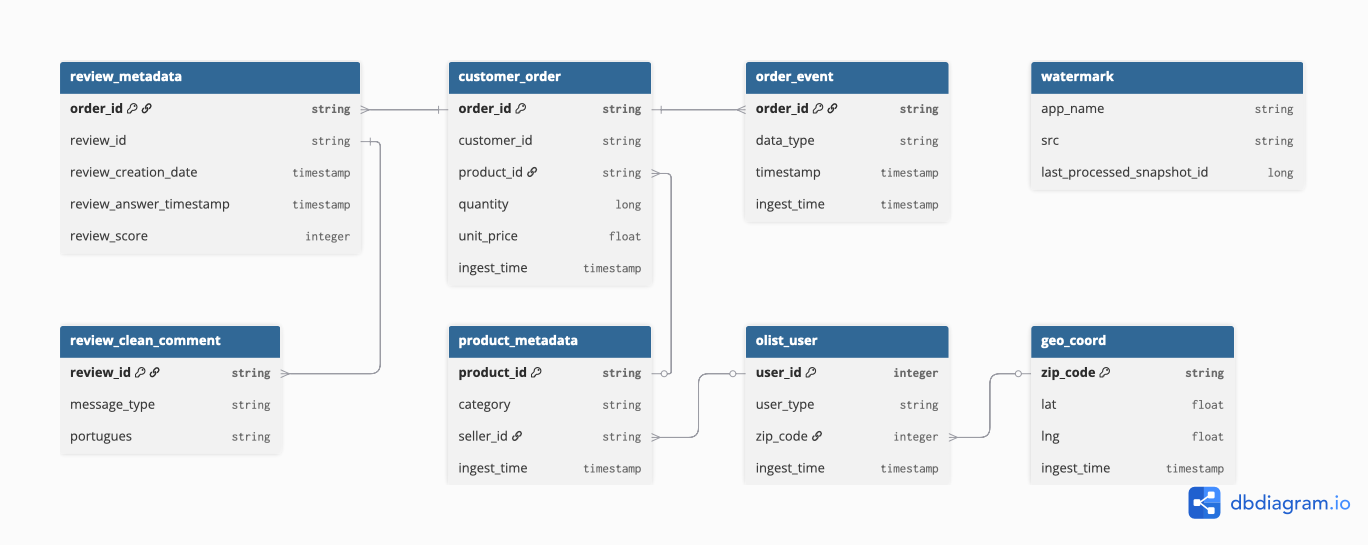
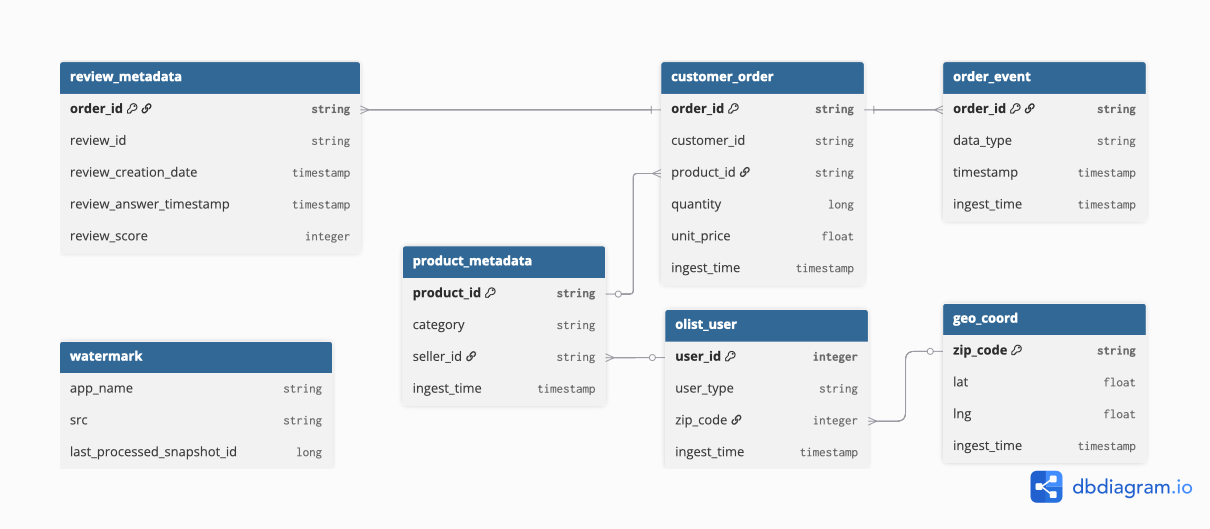
fix(docs): modify layout, schema image, and framwork version

diff --git a/_posts/2025-11-22-ecommerce.md b/_posts/2025-11-22-ecommerce.md
@@ -12,9 +12,18 @@ mermaid: true
 
 - 목표: 실시간 배송 지연 모니터링 및 매출 대시보드 구축
 - 기간: 2025년 4월 ~
-- 사용 기술: kafka, confluent, spark, iceberg, minio, airflow, prometheus, grafana, superset
 - 사용 데이터: [Brazilian E-Commerce Public Dataset by Olist](https://www.kaggle.com/datasets/olistbr/brazilian-ecommerce/data)
     - 브라질 소상공인들에게 온라인 마켓플레이스를 제공하는 전자상거래 플랫폼인 `Olist`에서 제공한 캐글 데이터
+- 사용 기술 및 버전
+    - Kafka: `3.9.1`
+    - Confluent: `7.6.1`
+    - Spark: `3.5.6`
+    - Iceberg: `1.9.1`
+    - MinIO: `RELEASE.2025-06-13T11-33-47Z`
+    - Airflow: `3.0.6`
+    - Prometheus: `3.5.0`
+    - Grafana: `12.2.0`
+    - Superset: `5.0.0`
 
 ## 프로젝트 목표 선정 배경
 
@@ -151,13 +160,10 @@ _long_tail_quantity_by_product_
 - 생성된 `tsv` 파일의 이름은 총 9개로, CDC에서 아래 요소들을 정의할 때 사용됩니다.
     - `Bronze Layer`의 테이블 이름
     - `Bronze Topic`의 토픽 이름
-- `테이블 변경 전 후` 변경 내용과 `CDC에 사용할 데이터의 최종 스키마`를 도식화하면 아래와 같습니다.
+- `테이블 변경 전 후` 변경 내용은 다음과 같습니다.
 
 ![img-description](../assets/img/portfolio/schema/prep_small.png)
 _테이블 변경 전 후_
-
-![img-description](../assets/img/portfolio/schema/bronze.png)
-_CDC에 사용할 데이터의 최종 스키마_
 
 ### 데이터 주입 시간 추가
 - 스트림 데이터를 모방하기 위해 `current_ingest_time` 열을 추가하여 데이터 주입 시간을 관리합니다.
@@ -179,9 +185,9 @@ current_ingest_time = \
 #### 배경 및 목적
 - 원본 데이터(`olist_orders`)에서 주문상태는 **수 시간에서 수일 간격**으로 발생하는 경우가 포함되어 있습니다.
 - 이를 실시간 파이프라인 시뮬레이션에 그대로 적용할 경우, **데이터가 유입되지 않는 긴 대기 시간**으로 인해 개발 효율성이 저하됩니다.
-- 따라서 **실제 주문 패턴(Burstiness)은 유지하되, 불필요한 공백기만 효율적으로 단축**하는 전략을 수립하였습니다.
+- 따라서 **실제 주문 패턴은 유지하되, 불필요한 공백기만 효율적으로 단축**하는 전략을 수립하였습니다.
 
-#### 데이터 분포 분석
+#### 주문 상태의 시간 차이 분석
 - 전체 주문 데이터에서 [주문 상태의 시간 차이](https://github.com/jmhwang-dev/e-commerce/blob/develop/notebooks/pandas/eda/diff_event_timestamp.ipynb)를 분석한 결과는 다음과 같습니다.
 
     * **Median (50%):** 39초 (평균적인 주문 흐름)
@@ -194,10 +200,10 @@ current_ingest_time = \
 
 - 현실성 있는 [메시지 발행 시뮬레이션](https://github.com/jmhwang-dev/e-commerce/blob/develop/simulator/run.py)과 개발 속도를 높이기 위해 다음과 같이 임계값을 설정하였습니다.
 
-    - **Threshold: `300초` (5분)**
+    - `threshold_interval`: 300초 (5분)
         - 전체 데이터 패턴의 **90%를 원본 그대로 보존**
         - 주문 폭주(Burst) 및 일반적인 트래픽 리듬을 왜곡 없이 재현
-    - **Base Interval: `30초`**
+    - `base_interval`: 30초
         - Grafana에서 **트래픽이 끊겼음(Lag 해소)**을 시각적으로 인지할 수 있는 최소한의 대기 시간 확보
 
 ```python
@@ -220,16 +226,16 @@ for i, order_status_series in order_status_df.iterrows():
 ```
 
 
-## 파이프라인 구조: 하이브리드(Hybrid) 모니터링 시스템
+## 파이프라인 구조: 하이브리드(Hybrid) 모니터링 시스템을 위한 Lambda 아키텍쳐
 
 - 프로젝트 목표로부터 아키텍처의 기본 요구사항은 아래와 같습니다.
     1. 배송지연 모니터링을 위한 주문 상태 시간의 스트림 처리 필요
     2. 상품 포트폴리오 매트릭스를 계산하기 위한 `평균 판매액`과 `주문 수` 배치 집계 필요
 
 - 요구사항을 통해 파이프라인 아키텍처를 다음과 같이 설계했습니다.
-    * **Analytical Layer (Batch):** 대용량 판매 이력을 분석하여 상품별 **비즈니스 등급(Tier)**을 산정
-    * **Operational Layer (Streaming):** 개별 주문의 배송 상태와 지연 여부를 **실시간으로 추적**
-    * **Serving Layer (Hybrid):** 위 두 정보를 결합하여, 운영자가 **핵심 상품(Star Product)의 지연**을 최우선으로 식별하고 조치할 수 있도록 지원
+    * **Batch Layer**: 대용량 판매 이력을 분석하여 상품별 **비즈니스 등급(Tier)**을 산정
+    * **Speed Layer:**: 개별 주문의 배송 상태와 지연 여부를 **실시간으로 추적**
+    * **Serving Layer**: 위 두 정보를 결합하여, 운영자가 **핵심 상품(Star Product)의 지연**을 최우선으로 식별하고 조치할 수 있도록 지원
 
 ![img-description](../assets/img/portfolio/pipeline/arch.png)
 _Lambda Architecture_
@@ -238,95 +244,159 @@ _Lambda Architecture_
 
 #### Confluent Schema Registry
 - CDC로 원천 데이터의 정합성을 보장하기 위해 도입했습니다.
-- 원천 데이터는 누락이 없이 수집되어야 하므로 [메시지에 null 값이 포함돼도 발행되도록 스키마를 구성](https://github.com/jmhwang-dev/e-commerce/tree/develop/infra/confluent/schemas/bronze)하였습니다.
-- 메시지 발행 시, schema registry에 등록한 Avro schema를 통해 직렬화를 수행합니다.
+- 원천 데이터는 누락이 없이 수집되어야 하므로 메시지에 null 값이 포함돼도 발행되도록 스키마를 구성하였습니다.
 
-<!-- 
-- 키 추가 내용
-- 코드 스니펫?
--->
+    ```jsonc
+    // null 포함 스키마 예시: `customer.avsc`
+
+    {   
+        "namespace": "bronze",
+        "type": "record",
+        "name": "customer",
+        "fields": [
+            { "name": "zip_code", "type": ["null", "int"], "default": null },
+            {
+                "name": "ingest_time",
+                "type": [ "null", { "type": "long", "logicalType": "timestamp-millis" } ],
+                "default": null
+            }
+        ]
+    }
+    ```
+    
+- 메시지 발행 시, schema registry에 등록한 [Avro schema](https://github.com/jmhwang-dev/e-commerce/tree/develop/infra/confluent/schemas)를 통해 [직렬화](https://github.com/jmhwang-dev/e-commerce/blob/develop/src/service/producer/base/pandas.py)를 수행합니다.
 
 #### Kafka cluster
 - 프로젝트 목표 중 `실시간 배송 지연 모니터링` 달성을 위해 Kafka를 사용했습니다.
 - Kafka cluster는 최소 3개의 노드로 구성해야 장애 대응에 안정적이므로 3개의 노드로 구성했습니다.
-- 전통적으로 많이 사용되던 메타데이터 관리 방식인 ZooKeeper가 deprecated 될 예정이었으므로, KRaft 모드로 구성했습니다.
-<!-- - 단일 파티션에서는 모든 메시지가 한 파티션에 저장되므로, 메시지의 순서가 보장됩니다.
-- 파티션 개수는 메시지의 시간 순서를 보장하고 구현을 단순화하기 위해 단일 파티션으로 구성하였습니다. -->
+- 전통적인 메타데이터 관리 방식인 ZooKeeper가 deprecated 될 예정이었으므로, KRaft 모드로 구성했습니다.
 - 데이터 주입 시, 개발 및 운영을 상황을 고려해서 동일 네트워크 및 외부 클라이언트가 주입할 수 있도록 [advertised.listeners](https://github.com/jmhwang-dev/e-commerce/blob/develop/configs/kafka/server1.properties)를 구성하였습니다.
+- 파티션 개수는 메시지의 시간 순서를 보장하고 구현을 단순화하기 위해 단일 파티션으로 구성하였지만, 파티션 수를 조절할 수 있도록 함수를 정의하였습니다.
+    ```python
+    def create_topics(admin_client: AdminClient, topics_names_to_create: Iterable[str], num_partitions:int = 1, replication_factor:int = 2):
+        """
+        Asynchronously creates topics. The call returns a dict of futures.
+        We wait for each future to finish to check for errors.
+        """
+        new_topics = [NewTopic(topic, num_partitions=num_partitions, replication_factor=replication_factor) for topic in topics_names_to_create]
+        
+        # create_topics는 토픽 이름과 Future 객체를 담은 딕셔너리를 반환합니다.
+        fs = admin_client.create_topics(new_topics)
 
-### Speed Layer
+        # 각 토픽의 Future 결과를 기다리며 성공/실패를 확인합니다.
+        for topic, f in fs.items():
+            try:
+                # f.result()를 호출하면 작업이 완료될 때까지 기다립니다.
+                # 성공하면 아무것도 반환하지 않습니다.
+                f.result()
+                print(f"Created topic: {topic}")
+            except KafkaException as e:
+                # f.result()에서 예외가 발생한 경우입니다.
+                # 에러 코드를 확인하여 이미 존재하는 토픽인지 확인합니다.
+                if e.args[0].code() == KafkaError.TOPIC_ALREADY_EXISTS:
+                    print(f"Topic {topic} already exists, skipping creation.")
+                else:
+                    # 그 외 다른 카프카 에러
+                    print(f"Failed to create topic {topic}: {e}")
+    ```
 
-#### Spark Streaming
-- 배치 처리와 스트림 처리를 모두 지원하는 통합 프레임워크로서 Spark를 선택했습니다.
+### Batch & Speed Layer
+
+#### 공통: Spark
+- 배치 처리와 스트림 처리를 모두 지원하는 통합 프레임워크로서 [Spark](https://github.com/jmhwang-dev/e-commerce/blob/develop/configs/spark/spark-defaults.conf)를 선택했습니다.
+    -
 - Spark 클러스터를 구축하여 대용량 데이터 처리의 성능과 확장성을 확보했습니다.
-- 구성은 클라이언트 노드, 마스터 노드, 워커 노드로 각각 하나의 컨테이너로 배포하였습니다.<br>[스파크 클러스터 설정](https://github.com/jmhwang-dev/e-commerce/blob/develop/configs/spark/spark-defaults.conf))
+- 구성은 클라이언트 노드, 마스터 노드, 워커 노드를 각각 하나의 컨테이너로 배포하였습니다.
+    - 워워커 노드가 호스트 내 다른 프로세스에 영향을 주지 않도록 자원 사용량을 제한했습니다.
+    ```yaml
+        environment:
+            SPARK_WORKER_MEMORY: 16g  # upper limit of memory to use
+            SPARK_WORKER_CORES: 14    # upper limit of cores to use
+    ```
 
-### Batch Layer
-#### Spark Batch & Airflow
+![img-description](../assets/img/portfolio/dashboard/grafana.png)
+
+#### [Batch Layer] Airflow
 
 ![img-description](../assets/img/portfolio/pipeline/airflow-dag.png)
 _dag diagram_
-<!-- ### Airflow -->
 
-### Storage (MinIO)
+![img-description](../assets/img/portfolio/dashboard/airflow-gantt.png)
+_gantt chart_
+
+
+#### [Batch Layer] Iceberg & MinIO
+
+-  Iceberg
+    - 테이블 형식은 Iceberg을 선정하였고 이유는 다음과 같습니다.
+        - 스키마와 파티션의 자유로운 변경: 현재는 CDC 데이터의 스키마가 고정되어 있지만, 추후 스키마가 변경될 수 있는 가능성을 내재하고 있음
+        - ACID 트랜잭션 보장:  여러 데이터 작업이 동시에 테이블에 접근하더라도 데이터 정합성이 깨지지 않으며, 커밋(Commit)이 완료된 작업만 사용자에게 보여주어 데이터의 신뢰도를 보장
+        - 다양한 엔진과의 호환성 및 개방성: 엔진에 종속되지 않는 개방형 표준을 지향
+        - 시간 여행과 버전 롤백: 특정 시점의 스냅샷 ID나 타임스탬프를 지정하여 과거의 데이터를 조회 가능하고, 데이터 처리 작업에 오류가 발생했을 경우, 이전의 특정 스냅샷으로 되돌릴 수 있어 데이터 안정성을 크게 높여줌
+
+- MinIO
+    - 데이터 저장소로 를 사용하였습니다.
+        - 비용과 보안 이슈에 상대적으로 자유로운 on-premise 상황을 가정했습니다.
+        - 추후 클라우드로 이전할 수 있는 상황을 고려하여 s3 object storage의 api와 동일한 MinIO를 채택하였습니다.
+    - MinIO에 저장되는 데이터는 Medallion Layer 구조를 기반으로 데이터 처리와 목적에 따라 Bronze, Silver, Gold 레이어로 분류하여 적재합니다.
+
+
+#### [Batch Layer] Medallion Layer
 
 ![img-description](../assets/img/portfolio/pipeline/medallion.png)
 _medallion architecture_
 
-#### Iceberg
-- 테이블 형식은 Iceberg을 선정하였고 이유는 다음과 같습니다.
-    - 스키마와 파티션의 자유로운 변경: 현재는 CDC 데이터의 스키마가 고정되어 있지만, 추후 스키마가 변경될 수 있는 가능성을 내재하고 있음
-    - ACID 트랜잭션 보장:  여러 데이터 작업이 동시에 테이블에 접근하더라도 데이터 정합성이 깨지지 않으며, 커밋(Commit)이 완료된 작업만 사용자에게 보여주어 데이터의 신뢰도를 보장
-    - 다양한 엔진과의 호환성 및 개방성: 엔진에 종속되지 않는 개방형 표준을 지향
-    - 시간 여행과 버전 롤백: 특정 시점의 스냅샷 ID나 타임스탬프를 지정하여 과거의 데이터를 조회 가능하고, 데이터 처리 작업에 오류가 발생했을 경우, 이전의 특정 스냅샷으로 되돌릴 수 있어 데이터 안정성을 크게 높여줌
+- Bronze Layer
+![img-description](../assets/img/portfolio/schema/bronze.png)
+_bronze_layer_schema_
 
-- 데이터 저장소로 MinIO를 사용하였습니다.
-    - 비용과 보안 이슈에 상대적으로 자유로운 on-premise 상황을 가정했습니다.
-    - 추후 클라우드로 이전할 수 있는 상황을 고려하여 s3 object storage의 api와 동일한 MinIO를 채택하였습니다.
-- MinIO에 저장되는 데이터는 Medallion Layer 구조를 기반으로 데이터 처리와 목적에 따라 Bronze, Silver, Gold 레이어로 분류하여 적재합니다.
+    | 테이블 이름 | 설명 |
+    |---|---|
+    | `payment` | 주문 결제 수단 및 금액 정보 |
+    | `customer` | 고객 ID 및 우편번호 정보 |
+    | `geolocation` | 우편번호 기준 위도/경도 및 지역 정보 |
+    | `order_status` | 주문 ID 별 현재 상태 및 타임스탬프 |
+    | `order_item` | 주문에 포함된 상품 품목 및 배송비, 판매자 정보 |
+    | `seller` | 판매자 ID 및 위치 정보 |
+    | `product` | 상품 카테고리 및 규격(무게, 크기) 정보 |
+    | `estimated_delivery_date` | 주문 별 예상 배송일 정보 |
+    | `review` | 고객 리뷰 내용 및 평점, 작성 시간 |
 
+- Silver Layer
+![img-description](../assets/img/portfolio/schema/silver.png)
+_silver_layer_schema_
 
-<!-- #### Bronze 레이어
+    | 테이블 이름 | 설명 |
+    |---|---|
+    | `review_metadata` | 리뷰 점수 및 작성/답변 시간 등 메타데이터 |
+    | `customer_order` | 고객, 주문, 상품 정보를 결합한 트랜잭션 데이터 |
+    | `product_metadata` | 상품 카테고리 및 판매자 연결 정보 |
+    | `order_event` | 주문 처리 과정의 각종 이벤트 타임스탬프 기록 |
+    | `olist_user` | 사용자(고객/판매자 등) 통합 정보 및 위치 키 |
+    | `geo_coord` | 표준화된 지리 좌표(위도/경도) 정보 |
+    | `watermark` | 데이터 파이프라인 처리를 위한 상태/오프셋 기록 |
 
-| 테이블 이름                | 설명                              |
-|----------------------------|-----------------------------------|
-| `order_item`               | 주문 품목 정보 저장              |
-| `order_status`             | 주문 상태 및 타임스탬프 저장     |
-| `estimated_delivery_date`  | 예상 배송일 저장                 |
-| `product`                  | 제품 정보 저장                   |
-| `payment`                  | 결제 정보 저장                   |
-| `customer`                 | 고객 정보 저장                   |
-| `geolocation`              | 위치 정보 저장                   |
-| `seller`                   | 판매자 정보 저장                 |
-| `review`                   | 리뷰 정보 저장                   |
+- Gold Layer
+![img-description](../assets/img/portfolio/schema/gold.png)
+_gold_layer_schema_
 
-#### Silver 레이어
-
-| 테이블 이름                    | 설명                              |
-|--------------------------------|-----------------------------------|
-| `order_product`               | 주문과 제품을 조인한 결과            |
-| `delivered_order_product`     | 배송 완료된 제품 정보         |
-| `user_location`               | 고객/판매자 위치 정보 통합       |
-| `delivered_order_timestamp`   | 배송 완료 주문의 통합 시간 기록   |
-| `order_timestamp`             | 주문 상태 별 시간 기록          |
-
-#### Gold 레이어
-
-| 테이블 이름                        | 설명                              |
-|------------------------------------|-----------------------------------|
-| `timestamp_stats_wide`            | 배송 리드타임 통계                |
-| `sale_stats`                      | 제품별 매출 집계                 |
-| `health_beauty_sales_stats_bcg`   | Health & Beauty 매출 및 BCG 세그먼트 |
-| `delivered_order_product_bcg`     | 배송 완료 제품에 BCG 세그먼트 추가 |
-| `order_location`                  | 주문의 고객/판매자 위치 정보     |
-| `review_metadata_product`        | Health & Beauty 리뷰 정보         | -->
+    | 테이블 이름 | 설명 |
+    |---|---|
+    | `fact_order_lead_days` | 주문 단계별 소요 시간(Lead Time) 분석 팩트 테이블 |
+    | `fact_order_detail` | 분석용으로 통합된 주문 상세 마스터 테이블 |
+    | `dim_user_location` | 사용자 위치 분석을 위한 차원 테이블 |
+    | `fact_review_answer_lead_days` | 리뷰 작성 후 답변까지 걸린 시간 분석 팩트 테이블 |
+    | `fact_monthly_sales_by_product` | 상품별 월간 판매량 및 매출 집계 테이블 |
 
 ### Serving Layer
 #### Thrift Server
 
+
 #### Superset
 - Superset을 활용하여 `매출 집계` 및 `실시간 배송지연 모니터링`을 확인할 수 있도록 인터랙티브하게 구성했습니다.
     - `Sales Detail`
+        ![img-description](../assets/img/portfolio/dashboard/sales.png)
+
         - Rank by Category: 제품군 별 누적 매출 순위
         - Rank by Product: 제품 별 누적 매출 순위
         - Sales Quantity by Month: 월 별 판매 제품 개수
@@ -335,15 +405,8 @@ _medallion architecture_
         - Average Order Lead Days by Month: 월별 평균 배송 단계 소요 시간
 
     - `Delivery Monitor`
+        ![img-description](../assets/img/portfolio/dashboard/monitor.png)
+
         - Delivery Status: 주문 상태별 타임스탬프와 배송사의 배송 소요일
         - Order Detail: 주문 상세 (카테고리, 제품, 수량, 단가)
         - Order Location: 주문 제품의 판매자와 구매자의 위치
-
-## 결과
-![img-description](../assets/img/portfolio/dashboard/sales.png)
-
-![img-description](../assets/img/portfolio/dashboard/monitor.png)
-
-![img-description](../assets/img/portfolio/dashboard/grafana.png)
-
-![img-description](../assets/img/portfolio/dashboard/airflow-gantt.png)
